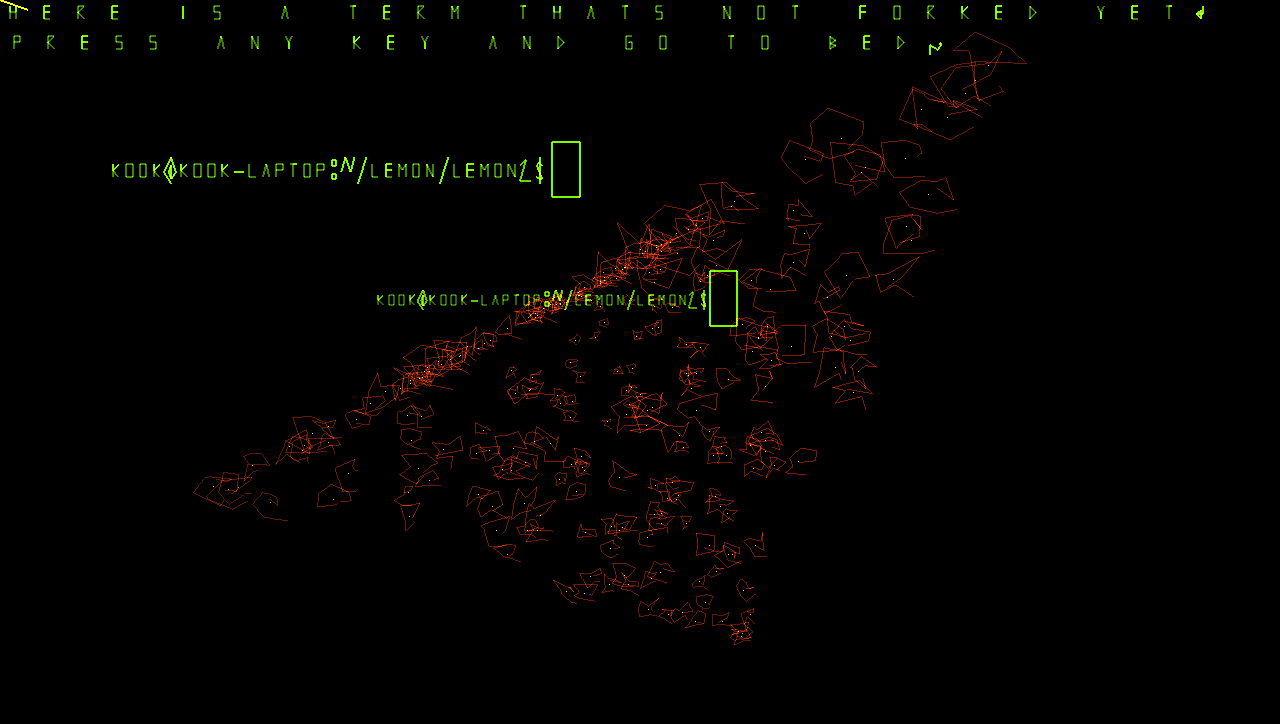
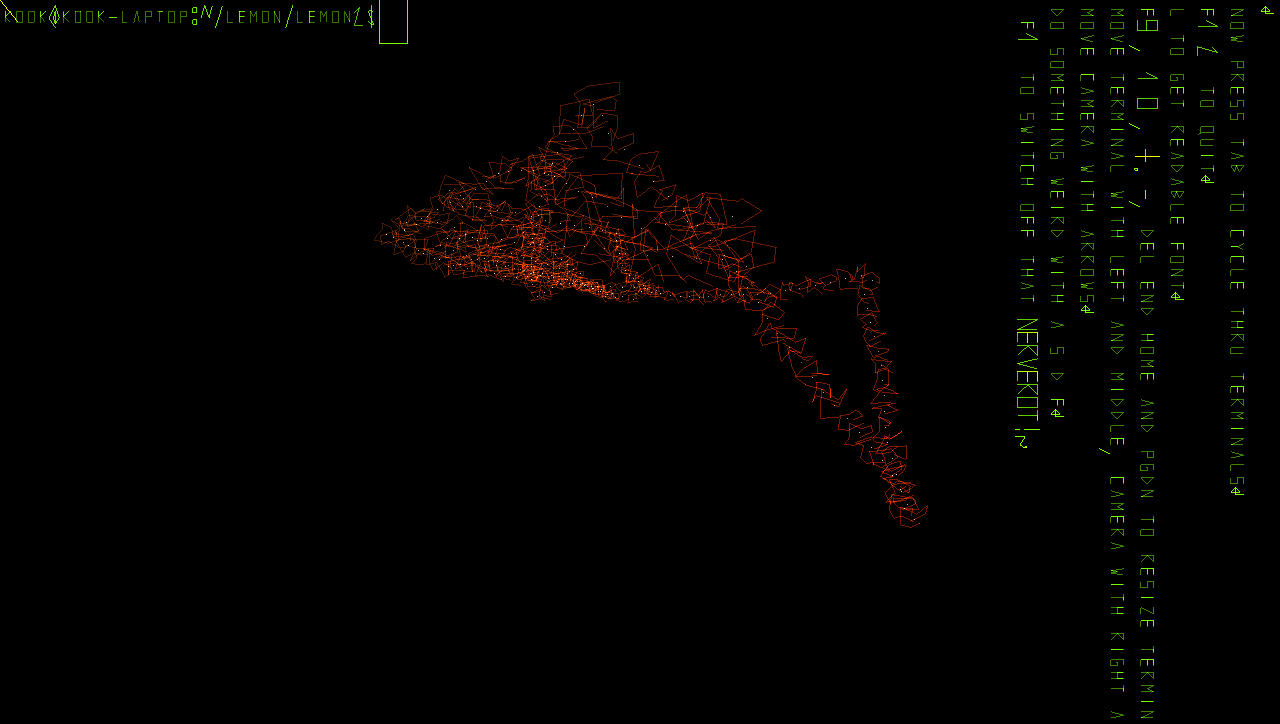
disabled blending as i couldnt get the lines right. fixed gltext.

diff --git a/lemon2/asd.c b/lemon2/asd.c
@@ -762,11 +762,12 @@ int RunGLTest (void)
 		wm();
 //		int down=0;
 		glDisable(GL_BLEND);
-		glShadeModel(GL_FLAT);
-		glBlendFunc(GL_SRC_ALPHA, GL_ONE);
+		//glShadeModel(GL_FLAT);
+//		glBlendFunc(GL_SRC_ALPHA, GL_ONE_MINUS_SRC_ALPHA);
 		glClearColor( 0.0, 0.0, 0.0, 0.0 );
 		glLineWidth(lv);
-		glHint(GL_LINE_SMOOTH_HINT,GL_FASTEST);
+//		glDisable (GL_LINE_SMOOTH);
+//		glHint(GL_LINE_SMOOTH_HINT,GL_FASTEST);
 	    #endif
 	}
 	void initfaces(void)
@@ -815,7 +816,7 @@ int RunGLTest (void)
 			#endif
 			#ifdef nerve
 			if(nerv)
-			{
+			{	
 				glLineWidth(1);
 				shownerv(nerv);
 				glLineWidth(lv);

diff --git a/gltext.c b/gltext.c
@@ -90,13 +90,17 @@ float a,float z)
                 glColor4d(r,g,b,a);
             }
 
-            if (!*x)/*last dot*/
+            if ((!*x)||(' '==(*x)))/* last dot*/
             {
                 dooooot(lok.x+fxdot,lok.y+fydot);
     		glColor4d(0,0,0,0);
                 dooooot(lok.x+fxdot,lok.y+fydot);
-                if(duped)free(duped);
-                return;
+        	if(!*x)
+        	{
+            	    if(duped)free(duped);
+            	    return;
+        	}	
+
             }
             else // just ordinary dot
             {
